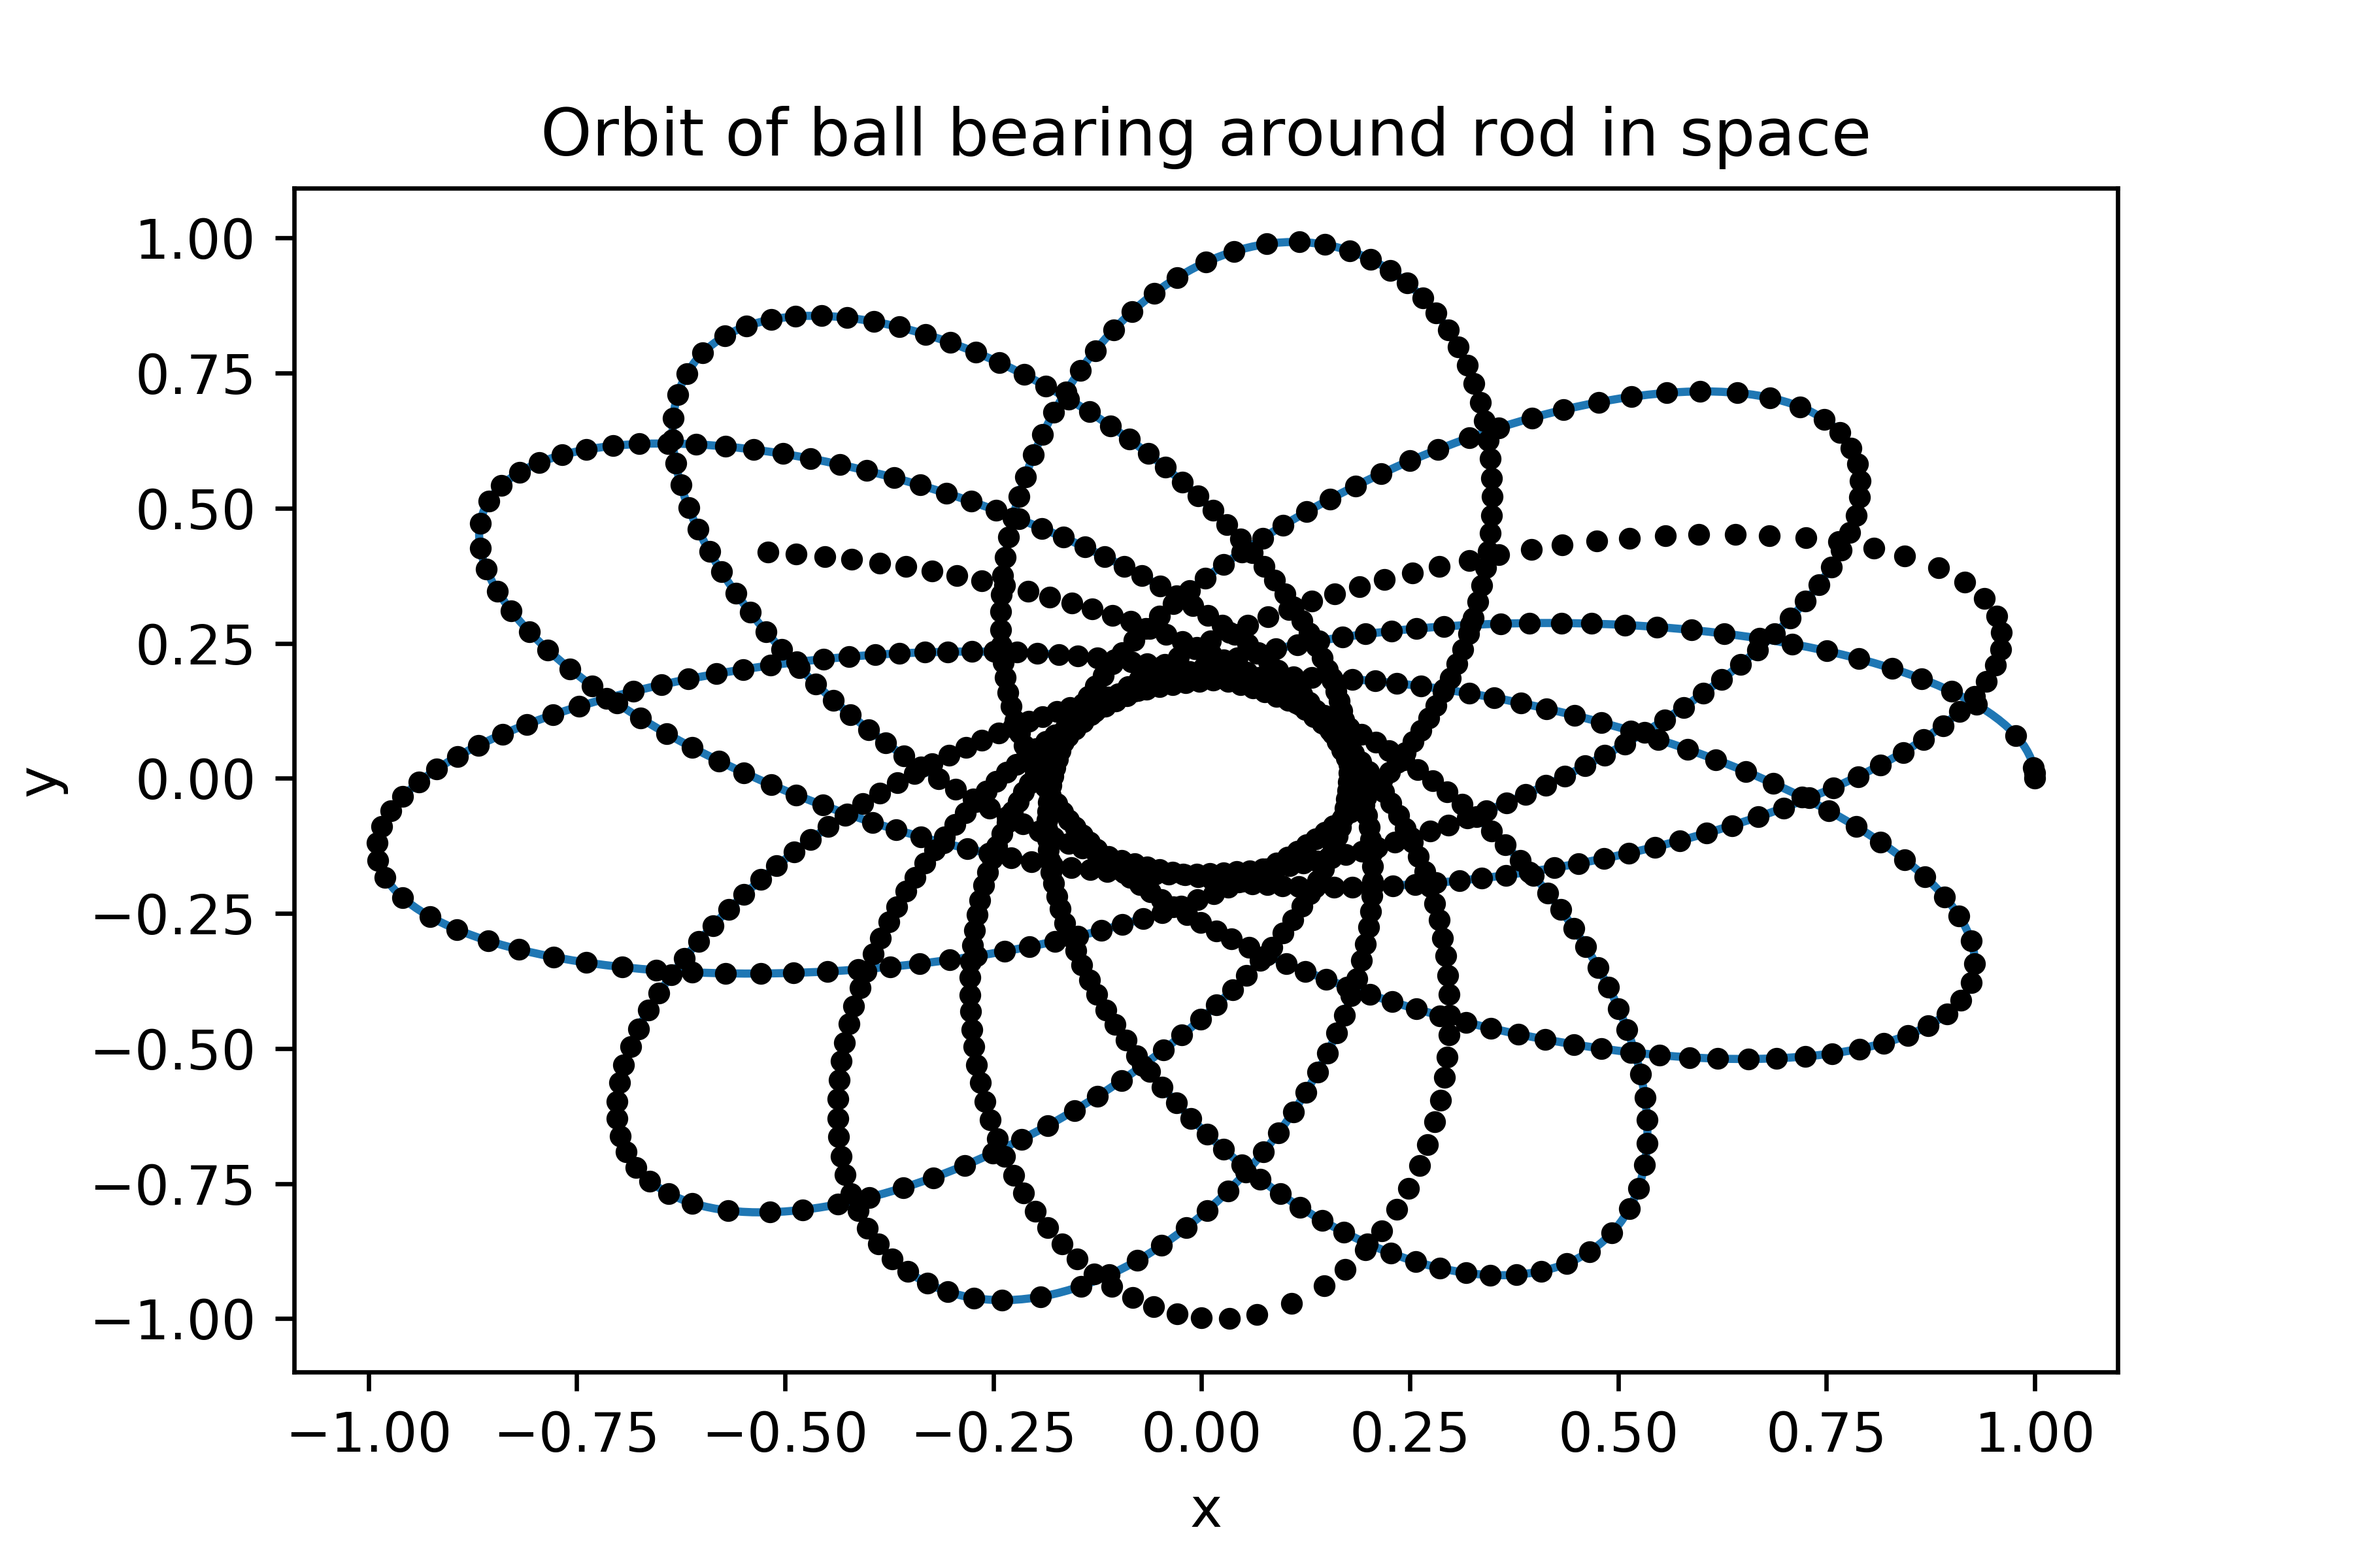
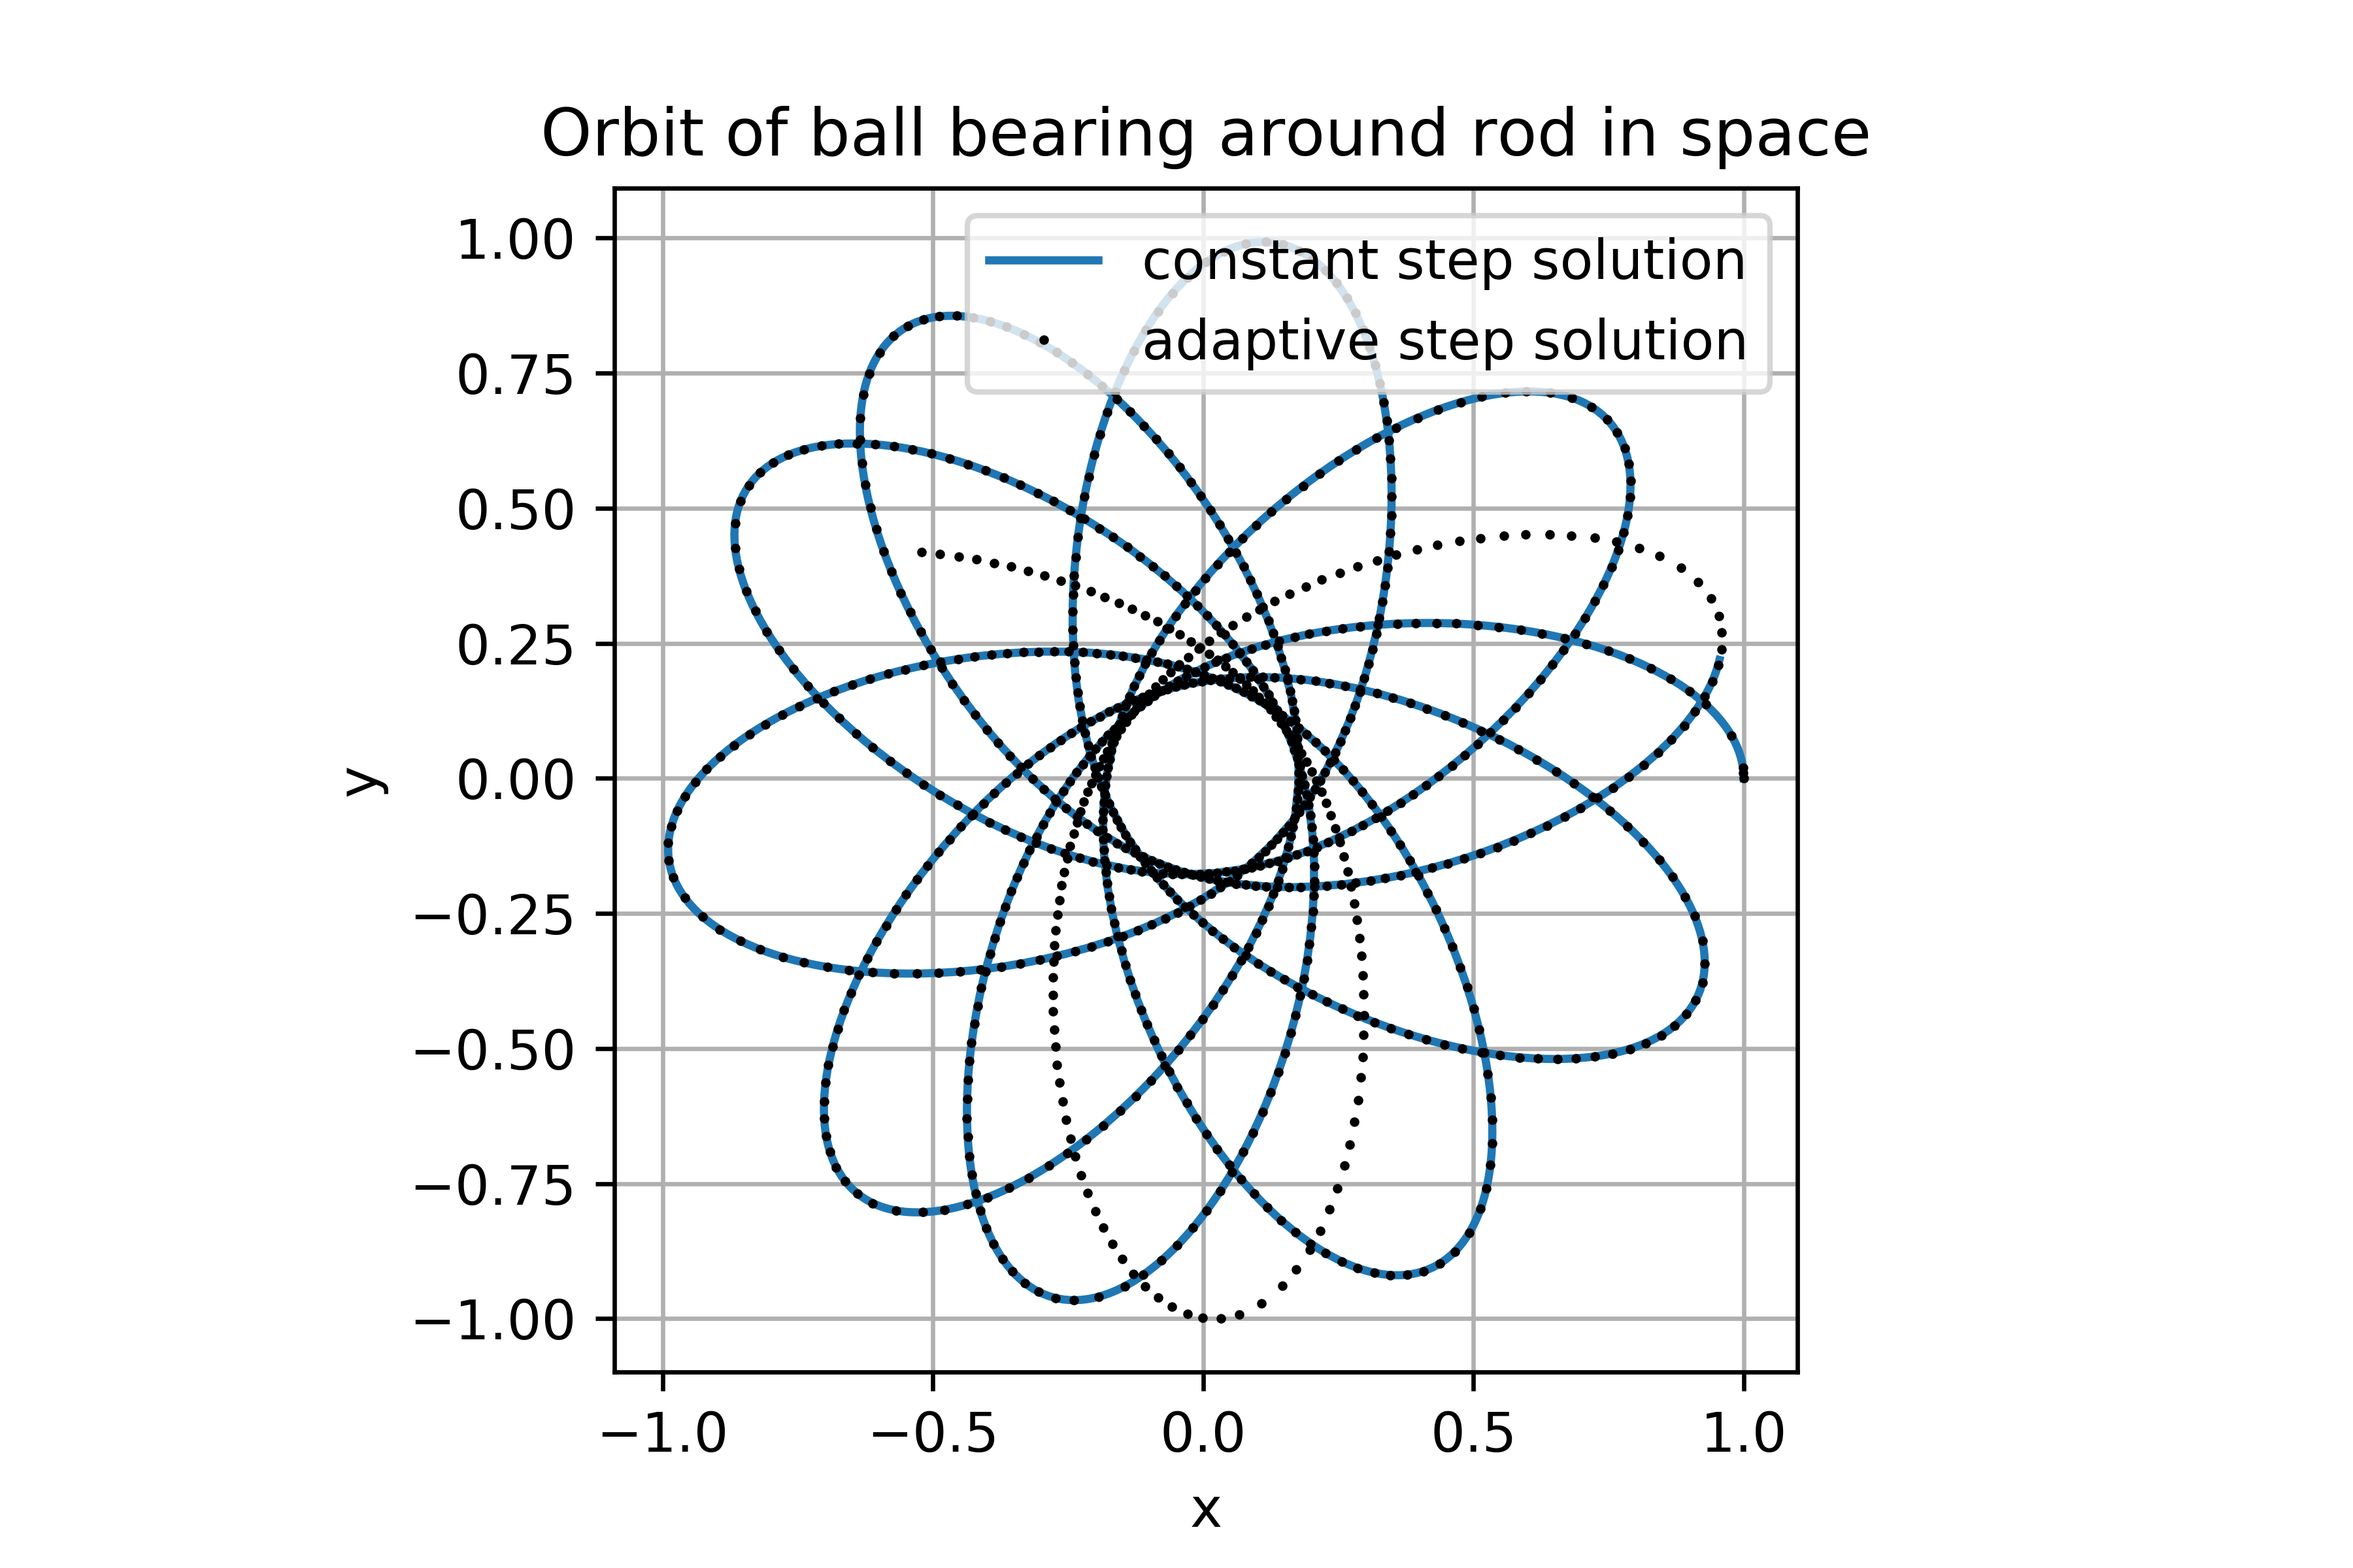
fixed latex file and adjusted q1

diff --git a/Lab07/tex_file/PHY407_Lab07.tex b/Lab07/tex_file/PHY407_Lab07.tex
@@ -23,6 +23,47 @@
 
 \section{Return of the Space Garbage}
 
+The objective of this question is to take the solution of the orbital trajectories modeled in Lab 06 and implement an adaptive time step to use with 4th order Runge-Kutta to compare to the previous results.
+
+\subsection{Part a)}
+We implement a variable time step by setting our initial step size to be $h=0.01s$ and error per step size to be $\delta=10^{-6}$. We then proceed by computing the position values after two steps of size $h$ and the position values after one step of size $2h$. The position values are then used to compute the $\rho$ value using the equation
+
+\begin{equation}
+	\rho = \frac{h\delta}{sqrt(\epsilon_x^2 + \epsilon_y^2)}
+\end{equation}
+with 
+\begin{equation}
+	\epsilon_i = \frac{(i_1-i_2)}{30}
+\end{equation}
+for $i=x,y$.
+The step size $h$ is then updated via $h\prime = h\rho^{1/4}$ and if $\rho$ is determined to be within our desired threshold the position values are recorded and we repeat the computations at time $t+2h$. If $\rho$ is outside of the threshold we use recalculate the positions of two steps and one double step for the updated $h$ value and again update $\rho$ and $h$ to determine if the error is small enough.
+
+This is repeated for the desired number of steps $N=1000$ and plotted overlying of the results we got in Lab 06. The plot is shown in figure \ref{fig:q1_a} and from it we can see the effects of the adaptive time step based on the spacing of the dots. We can intuit that based on Kepler's laws the ball bearing will be traveling faster at perihelion than at aphelion. Thus the changes in position for a given time frame will be greater close to the rod than further away from it. As a result our adaptive time step program uses a greater number of smaller magnitude time steps when the orbit takes the ball bearing closer to the rod and a lower number of greater magnitude time steps when the orbit bring the ball far from the rod. Comparing this to the fixed time step solution underneath we can also see that the adaptive step program is more efficient and is capable of computing a larger time range using the same number of steps. 
+
+\begin{figure}[H]
+	\centering
+	\includegraphics[width=0.8\textwidth]{../images/q1_orbit.png}
+	\caption{Orbit of a ball bearing in space rotating around a rod in a plane perpendicular to the axis of the rod. The black dots are the points computed using an adaptive time step, overlying the curve corresponding to the solution computed using a fixed time step.}
+	\label{fig:q1_a}
+\end{figure}
+
+\subsection{Part b)}
+We now wish to compare the computation times of the fixed step method with the adaptive step method. Running the fixed step method with a step size of $h=0.01s$ for $N=1000$ steps yields a total computation time of $t=0.06249s$. The same fixed step method with a step size of $h=0.001s$ for $N=10,000$ steps yields a total computation time of $t=0.5404s$.
+Comparatively, the adaptive step method with an initial step size of $h=0.01s$ for $N=1000$ steps yields a total computation time of $t=0.1562s$ while the adaptive step method with an initial step size of $h=0.001s$ for $N=10,000$ steps yields a total computation time of $t=1.523s$.
+
+From this we can see that the using the same number of steps the adaptive step method takes at least 2 to 3 times longer. We can estimate that the reasons for this is due to the adaptive step method additionally computing the solution at every other step using a double step. The adaptive step also runs the issue of computing the solutions for a given step and repeating the computation for a smaller step if the error is unsatisfactory. 
+
+\subsection{Part c)}
+The step size at each point is plotted over the total time in figure \ref{fig:q1_c}. Ignoring the first quarter second or so (for stability reasons mentioned in the lab manual) we can see that the cyclic pattern of the step sizes lines up with the cyclic pattern of the orbit of the ball. As previously mentioned, when the ball is close to the rod it is traveling faster requiring are larger number of small step sizes and when the ball is far from the rod it is traveling slower requiring less number of larger step sizes. Thus we can see the 12 valleys on figure \ref{fig:q1_c} of lowest step sizes correspond to the points in the trajectory when the ball is at perihelion with respect to the rod, and the 12 peaks on figure \ref{fig:q1_c} of largest step sizes correspond to the points in the trajectory when the ball is at aphelion with respect to the rod (including the starting position).  
+
+\begin{figure}[H]
+	\centering
+	\includegraphics[width=0.8\textwidth]{../images/q1_orbit_step.png}
+	\caption{Time step size over time in orbit corresponding to the solution of a ball bearing orbiting a rod in space attained using the 4th order Runge-Kutta method with an adaptive time step.}
+	\label{fig:q1_c}
+\end{figure}
+
+
 \section{The Hydrogen Atom}
 
 \subsection{Part b)}

diff --git a/Lab07/code/Lab07_Q1.py b/Lab07/code/Lab07_Q1.py
@@ -164,11 +164,14 @@ x = sol[:,0]
 y = sol[:,1]
 
 #plot resulting function
-plt.plot(x, y, 'k.', label='adaptive time steps')
+plt.plot(x, y, '.', color='black', markersize=1.5, label='adaptive step solution')
+plt.grid()
 plt.xlabel("x")
 plt.ylabel("y")
+plt.axis('scaled')
 plt.title("Orbit of ball bearing around rod in space")
 plt.grid()
+plt.legend()
 plt.savefig("../images/q1_orbit.png", dpi=600)
 
 #plot the step size as a function of time
